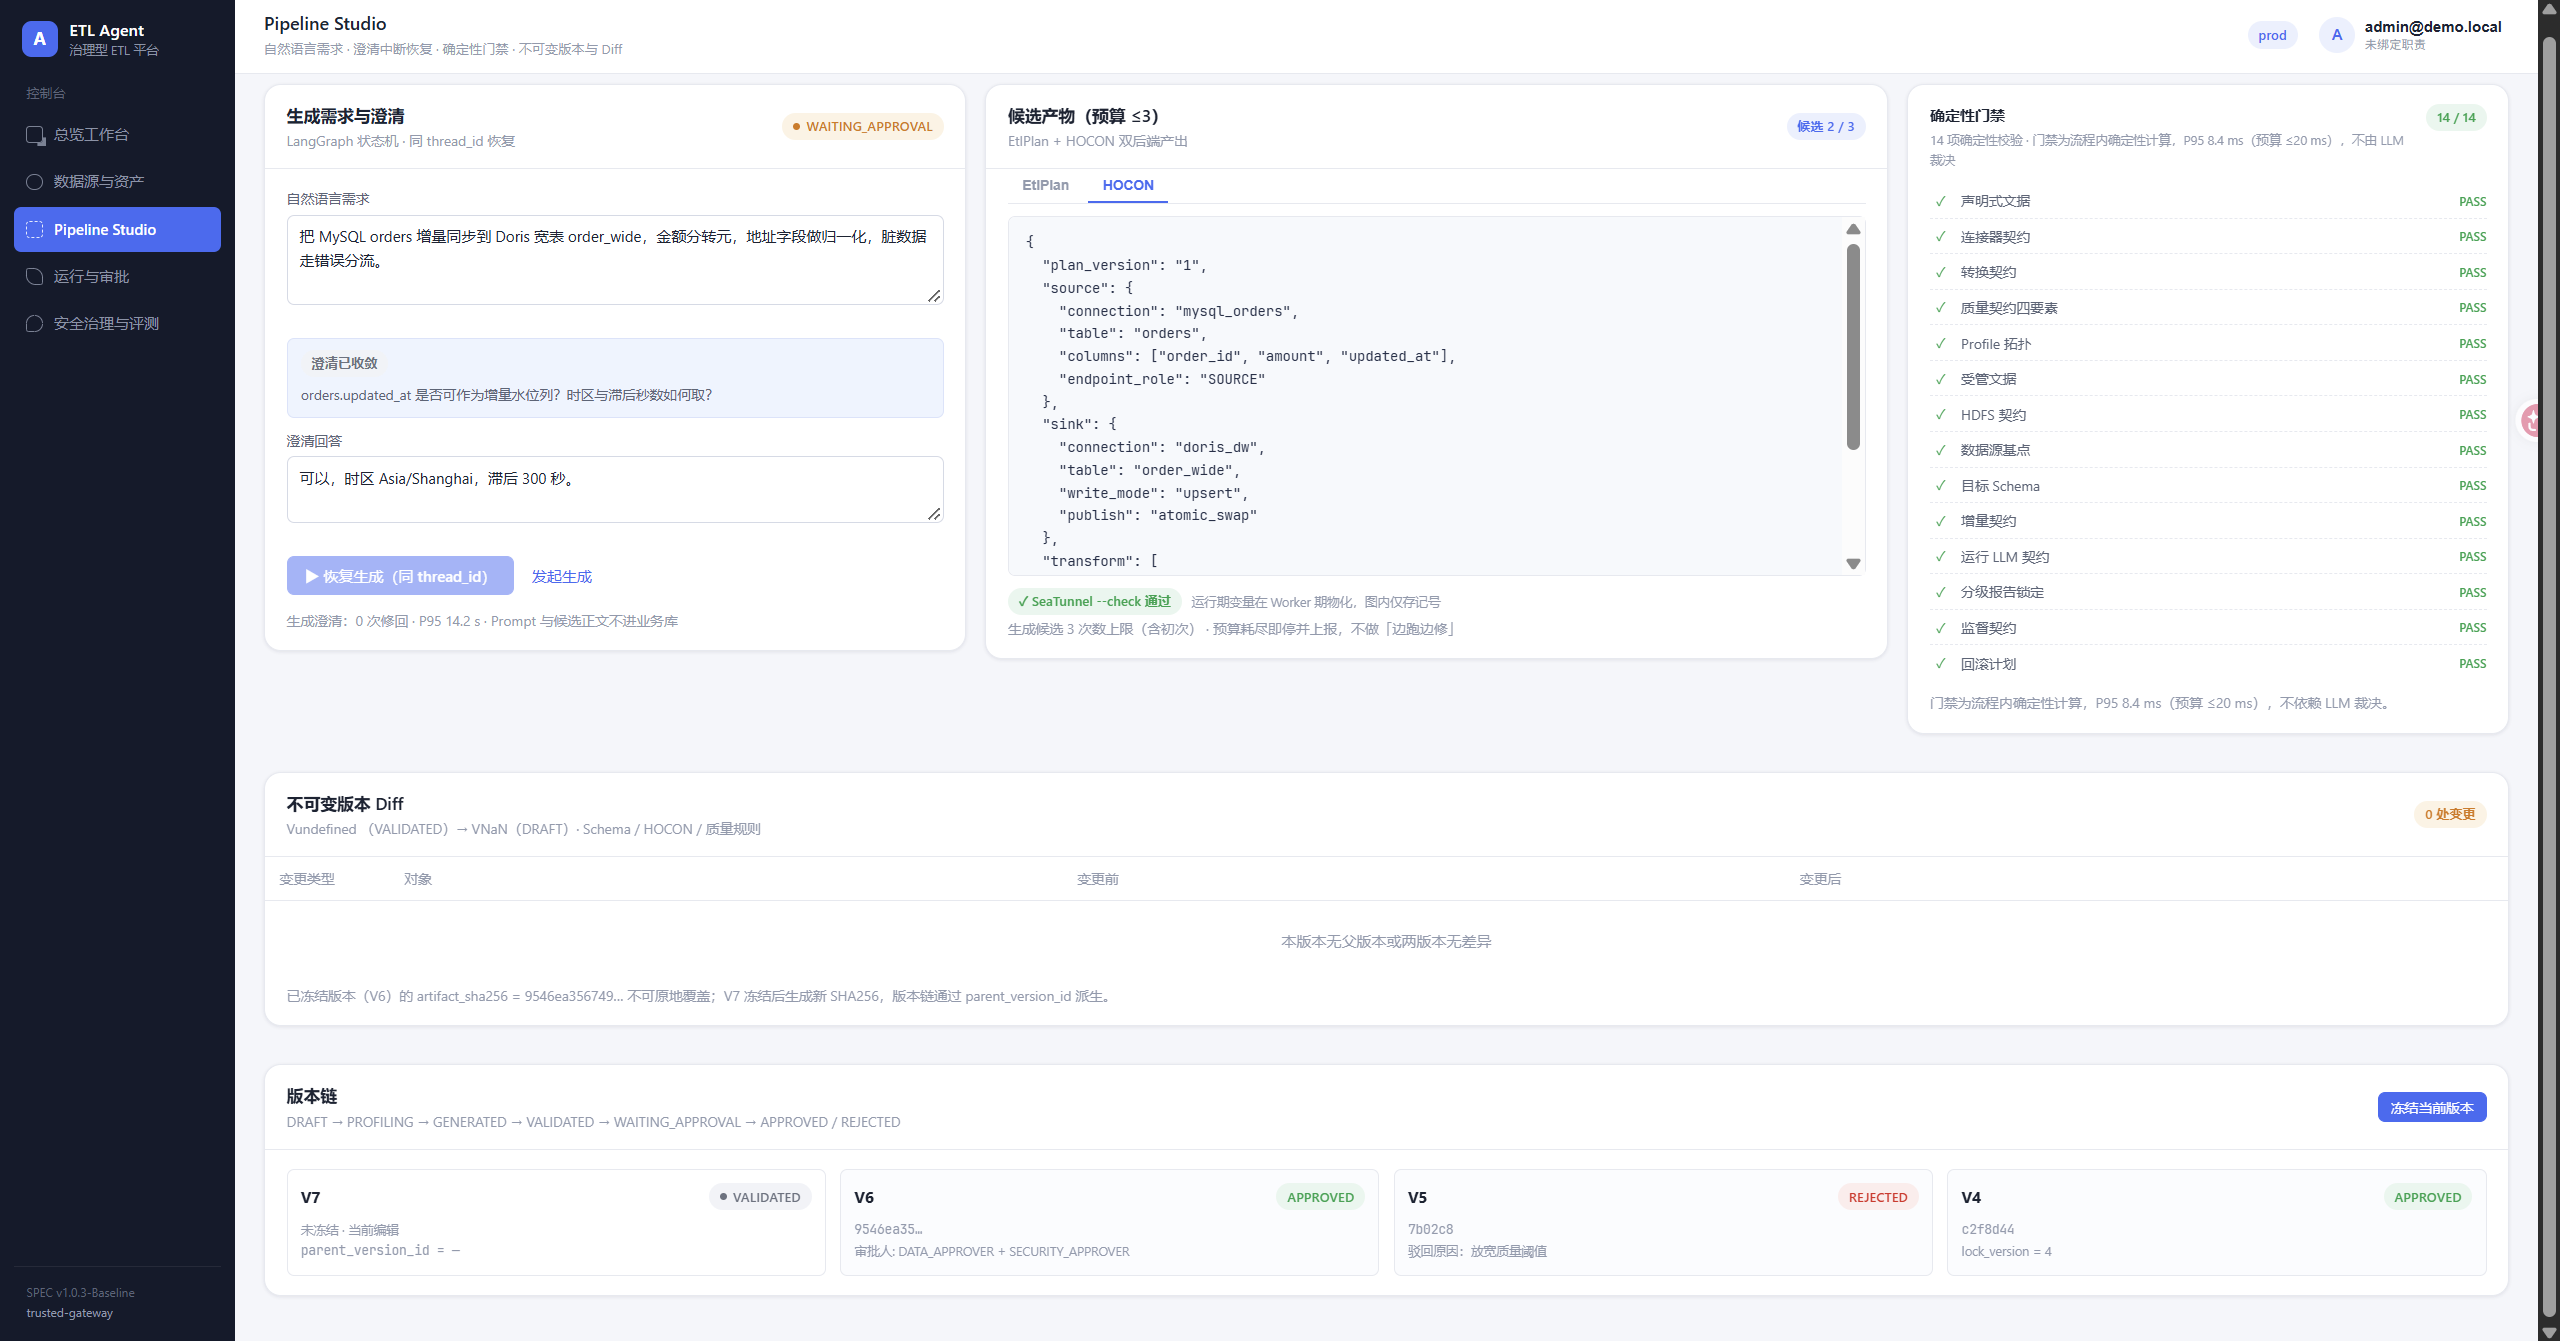
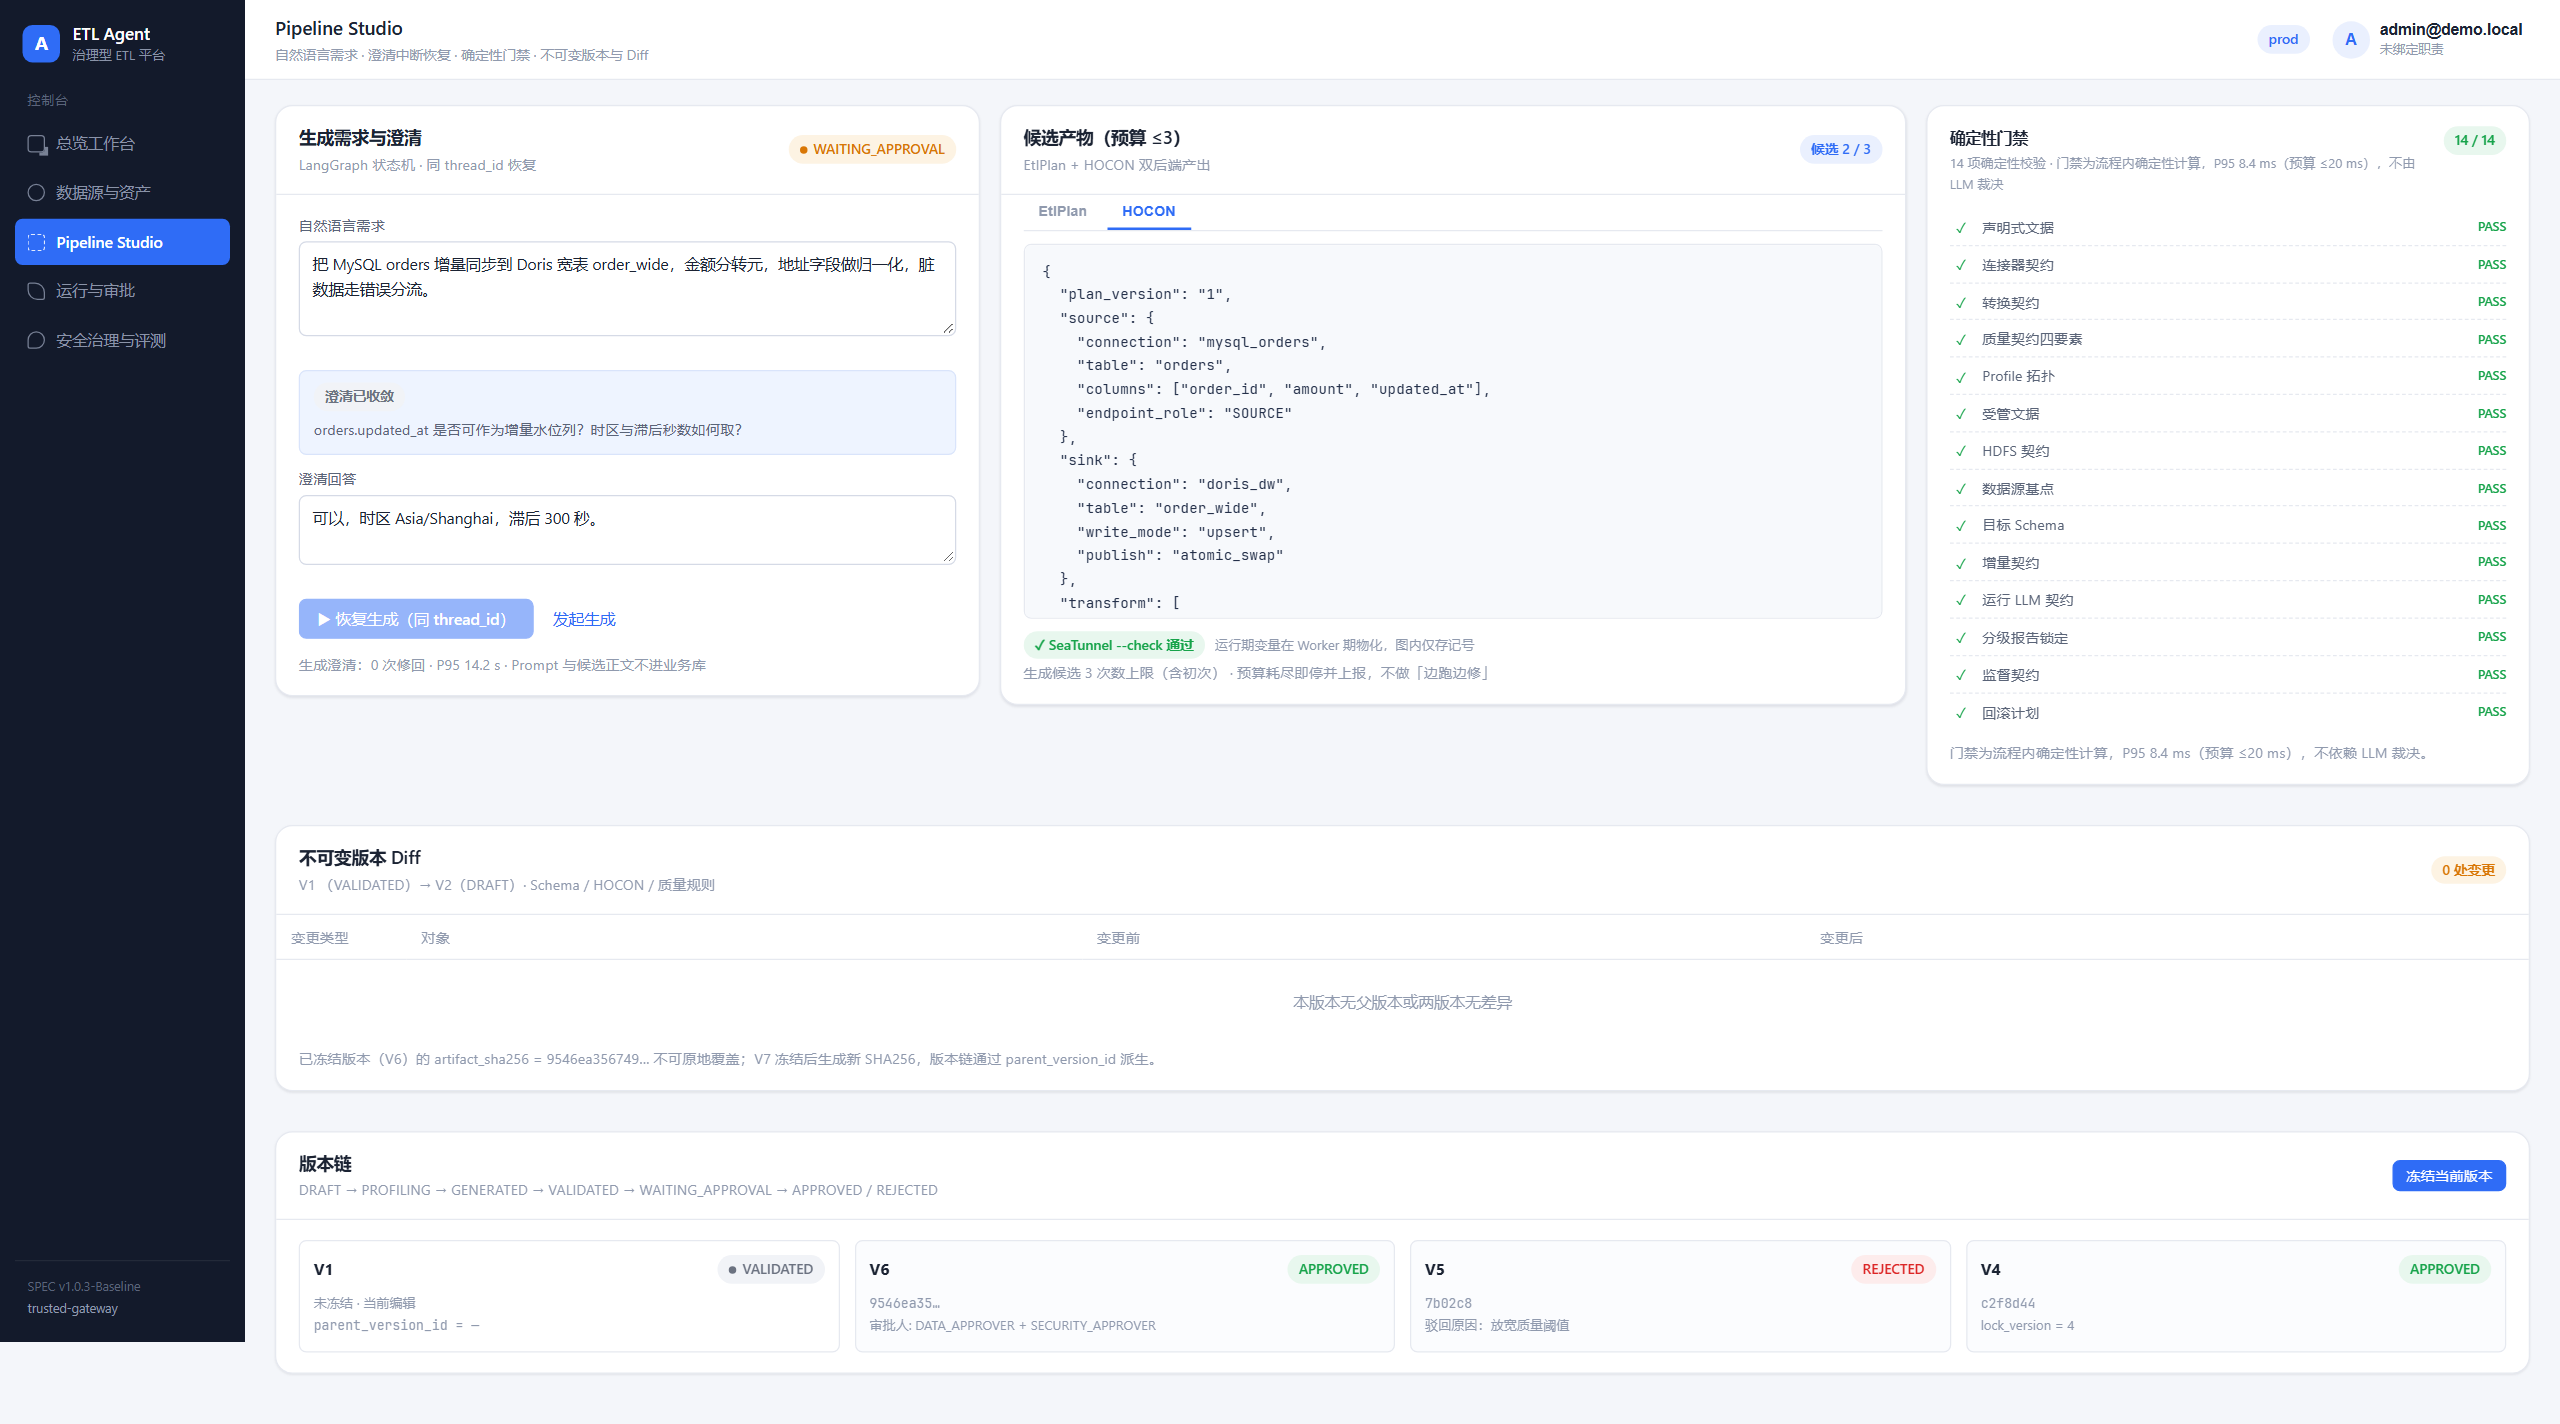
docs(S10): A5 重截替换（T-CONSOLE-04 修复后），删 §8.9 的 Vundefined 注记 (#26)
PR #25（T-CONSOLE-04，版本号字段名对齐后端）合入后，按**同一 run28 数据**重截 A5：
画面版本号从 `Vundefined（VALIDATED）→ VNaN（DRAFT）` 变为
**`V1（VALIDATED）→ V2（DRAFT）`**，版本链首卡从恒 `V7` 变为 **`V1`**。

【改动】
- `A5-pipeline-studio.png`：重截替换（**2560×1424**，fullPage 无裁切；口径
  CSS 2048×1073 @ DPR 1.25，宽度对齐原图 2560）
- `演示回放.md` §8.9：**删除**「缺陷详情备查 2（Vundefined / VNaN）」整段；
  「为什么 A5 单独一轮」下补一句重截来源（PR #25 后按同一 run28 数据重截）
- `S10-demo-a/README.md`：「已知画面缺陷」段 → 改为「重截记录」；末尾指向改为
  「缺陷详情备查 1」（备查 2 已删）
- `tracking.md`：T-CONSOLE-04 → **Closed（PR #25）**

【验证】
- 重截时 playwright 实跑断言：`Vundefined` / `VNaN` **均 false**、**无页面 JS 异常**
- 画面核对：身份 `admin@demo.local` · 门禁 `14/14`（演示态，T-CONSOLE-02）·
  Diff 标题 `V1（VALIDATED）→ V2（DRAFT）` · 版本链 `V1·VALIDATED` +
  `V6·APPROVED` / `V5·REJECTED` / `V4·APPROVED`（V4~V6 为演示态，同 T-CONSOLE-02）·
  `artifact_sha256 9546ea356749…`
- **仅替换 A5**，A0~A4 未动

【环境说明（重截时踩到）】
本机 Docker 容器**全被移除**（`docker ps -a` 为空，`etl_agent-worker` / `-beat` 镜像亦丢失）。
Studio 页只读 PG（agent-runs / connections / profiles / pipeline-versions），故本次只起
`postgres` + `redis` + 宿主机 API + 前端 dev server 即完成渲染，**未**重建
worker / beat / seatunnel / MySQL / Doris。数据卷（`pg_data` 76M 等）完好，run28 的 PG
事实（`projects=1 / runs=1 / versions=1`）原样可用。

【未做】
- 未动 `*-Baseline` / `infra/.env` / seed SQL / 任何代码。
- T-CONSOLE-02（Studio 门禁 / HOCON / 版本链 ghost 卡演示态）仍在 Open，不在本 PR 范围。

diff --git a/docs/open-questions/tracking.md b/docs/open-questions/tracking.md
@@ -46,7 +46,7 @@
 | S10 | 17 | 质量契约未声明阈值 → 拒绝率 100% 仍判 PASSED（fail-open） | 独立排期 | **T-QUALITY-01** |
 | S10 | 18 | Pipeline Studio 门禁 14/14 / HOCON 正文 / 版本链 / 候选数为硬编码演示态，未标「示意」 | 独立排期 | **T-CONSOLE-02** |
 | S10 | 19 | Safety 页 Benchmark 六项门禁回落演示值，`live` 字段算了但模板未用 | 独立排期 | **T-CONSOLE-03** |
-| S10 | 20 | Studio 读 `version_no`（实际 `version_number`）→ 渲染 `Vundefined` / `VNaN` / 版本链恒 `V7` | 独立排期 | **T-CONSOLE-04** |
+| S10 | 20 | Studio 读 `version_no`（实际 `version_number`）→ 渲染 `Vundefined` / `VNaN` / 版本链恒 `V7` | **已修（PR #25，5 处引用全修）** | ✅ **T-CONSOLE-04 Closed** |
 
 ## 三、独立运维事项
 
@@ -580,9 +580,13 @@
 - **关联**：`frontend/src/views/SafetyGovernance.vue:65-88/196-235/308`；
   `docs/demo/演示回放.md` §8.9
 
-### T-CONSOLE-04：Studio 读 `version_no`，后端回 `version_number` → 渲染 `Vundefined` / `VNaN`（新，Open）
+### T-CONSOLE-04：Studio 读 `version_no`，后端回 `version_number` → 渲染 `Vundefined` / `VNaN`（**已修，PR #25**）
 
-- **状态**：Open（前端字段名 / 取数路径）
+- **状态**：**已修（`fix/S10-console-version-no` / PR #25）** —— 前端统一改读
+  `version_number`（`types.ts` 类型 + `PipelineStudio.vue` 3 处 + `VersionDiff.vue` 2 处，
+  共 6 处 / 3 文件）；`vue-tsc` / `eslint` / `vite build` 全绿，playwright 实跑确认
+  `/studio` 不再出现 `Vundefined` / `VNaN`（Diff 标题 = `V1（VALIDATED）→ V2（DRAFT）`）。
+  遗留 `?? 7` 魔法兜底归 T-CONSOLE-02。
 - **发现**：S10 补 Studio 截图取证（2026-10-17，A5 画面出现 `VNaN` 后读码定位）
 - **现象（A5 截图可见）**：
   - Diff 标题渲染为 **`Vundefined（VALIDATED）→ VNaN（DRAFT）`**

diff --git a/docs/demo/演示回放.md b/docs/demo/演示回放.md
@@ -393,6 +393,10 @@ run15_done=14:03:36
 > **为什么 A5 单独一轮**：Pipeline Studio 在 PR #14（run17）取证时因 `version_id` 缺陷
 > 跳过（见下方缺陷备查 1）；**PR #15** 修复该缺陷后，于时区修复（**PR #23** /
 > `fix/infra-tz`）之后补截，至此 **6 张齐全**。
+>
+> **A5 的重截**：**PR #25**（T-CONSOLE-04，版本号字段名对齐后端）修复后，按同一 run28
+> 数据重截替换原图 —— 画面上的版本号为真实值（`V1（VALIDATED）→ V2（DRAFT）`），
+> 版本链首卡为 `V1`。
 
 | 文件 | 视图 | URL | 核对结论 |
 | --- | --- | --- | --- |
@@ -436,13 +440,6 @@ run15_done=14:03:36
 > → 必 404 后回退 `DEFAULT_GATES` 演示态；修法见 **PR #15**
 > （`fix/S10-console-refresh-defects`）/ AMEND-010（列表出参追加该字段，前端优先直取、
 > `resolveVersionId` 降级兜底）。
-
-> 缺陷详情备查 2（**未修，T-CONSOLE-04**）：`PipelineStudio.vue:373-374`（Diff 标题）与 `:411`
-> （版本链卡）读 `currentVersion.version_no`，而 `GET /pipeline-versions/{id}` 实际回的是
-> **`version_number`** → 取到 `undefined`，页面因此渲染 **`Vundefined（VALIDATED）→ VNaN（DRAFT）`**、
-> 版本链卡恒显 `V7`（`?? 7` 兜底）。同因，该端点不出参 `hocon` / `etl_plan` → HOCON 视图回落
-> `SAMPLE_HOCON`。**A5 截图如实保留了这一画面**（取证不修饰）；修法待排期
-> （前端改字段名 + 版本正文取数路径，属代码改动，不在本次文档 PR 范围）。
 
 ---
 

diff --git a/docs/stages/assets/S10-demo-a/README.md b/docs/stages/assets/S10-demo-a/README.md
@@ -28,10 +28,10 @@
 | `A5` | 门禁 `14 / 14` 清单 | `PipelineStudio.vue:77-92` `DEFAULT_GATES`（无条件赋值，非后端结果） | **T-CONSOLE-02** |
 | `A5` | HOCON 正文（回落 `SAMPLE_HOCON`）、版本链 `V4`~`V6` 静态卡、候选 `2 / 3` 徽标 | 同页演示态兜底 | 同 **T-CONSOLE-02** |
 
-## 已知画面缺陷（如实保留，未修饰）
+## 重截记录
 
-- `A5`：Diff 标题渲染为 **`Vundefined（VALIDATED）→ VNaN（DRAFT）`**、版本链卡恒显 `V7`
-  —— 前端读 `version_no`，而后端该端点回的是 `version_number`（**T-CONSOLE-04**）。
+- `A5` 已重截一次：**PR #25**（T-CONSOLE-04，版本号字段名对齐后端）修复后，按同一 run28
+  数据重截替换 —— 版本号为真实值（`V1（VALIDATED）→ V2（DRAFT）`），版本链首卡 `V1`。
 
 ## 数据口径
 
@@ -45,4 +45,4 @@
 绑定：`localStorage.setItem('actor_id','admin@demo.local')` + `project_id`；项目已存在时
 **不要**走 Bootstrap 表单（会 409）。
 
-缺陷详情与修法见 `演示回放.md` §8.9 的「缺陷详情备查 1 / 2」。
+缺陷详情与修法见 `演示回放.md` §8.9 的「缺陷详情备查 1」（版本 id 404，PR #15 已修）。
